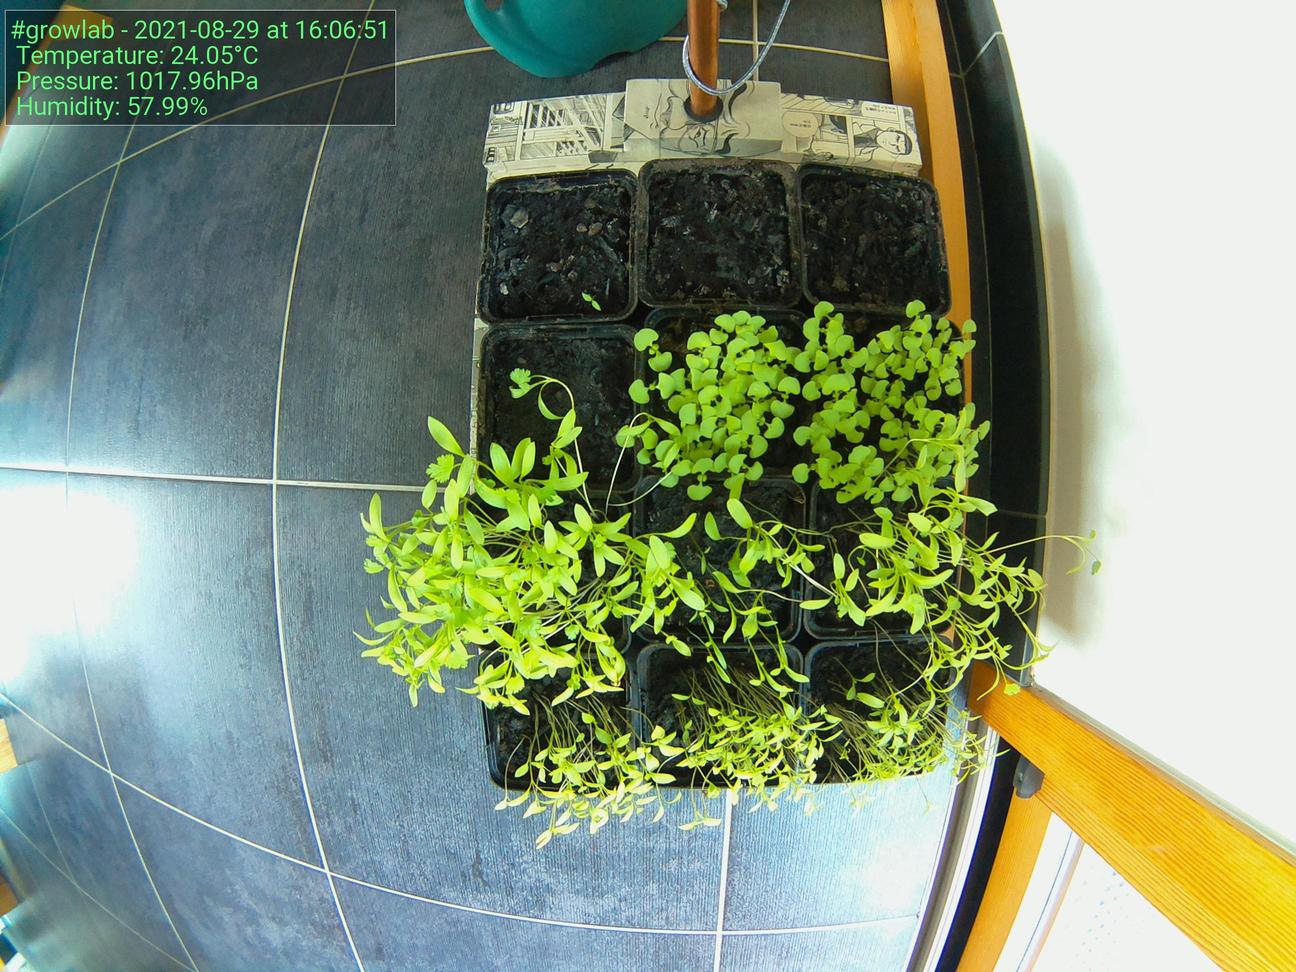
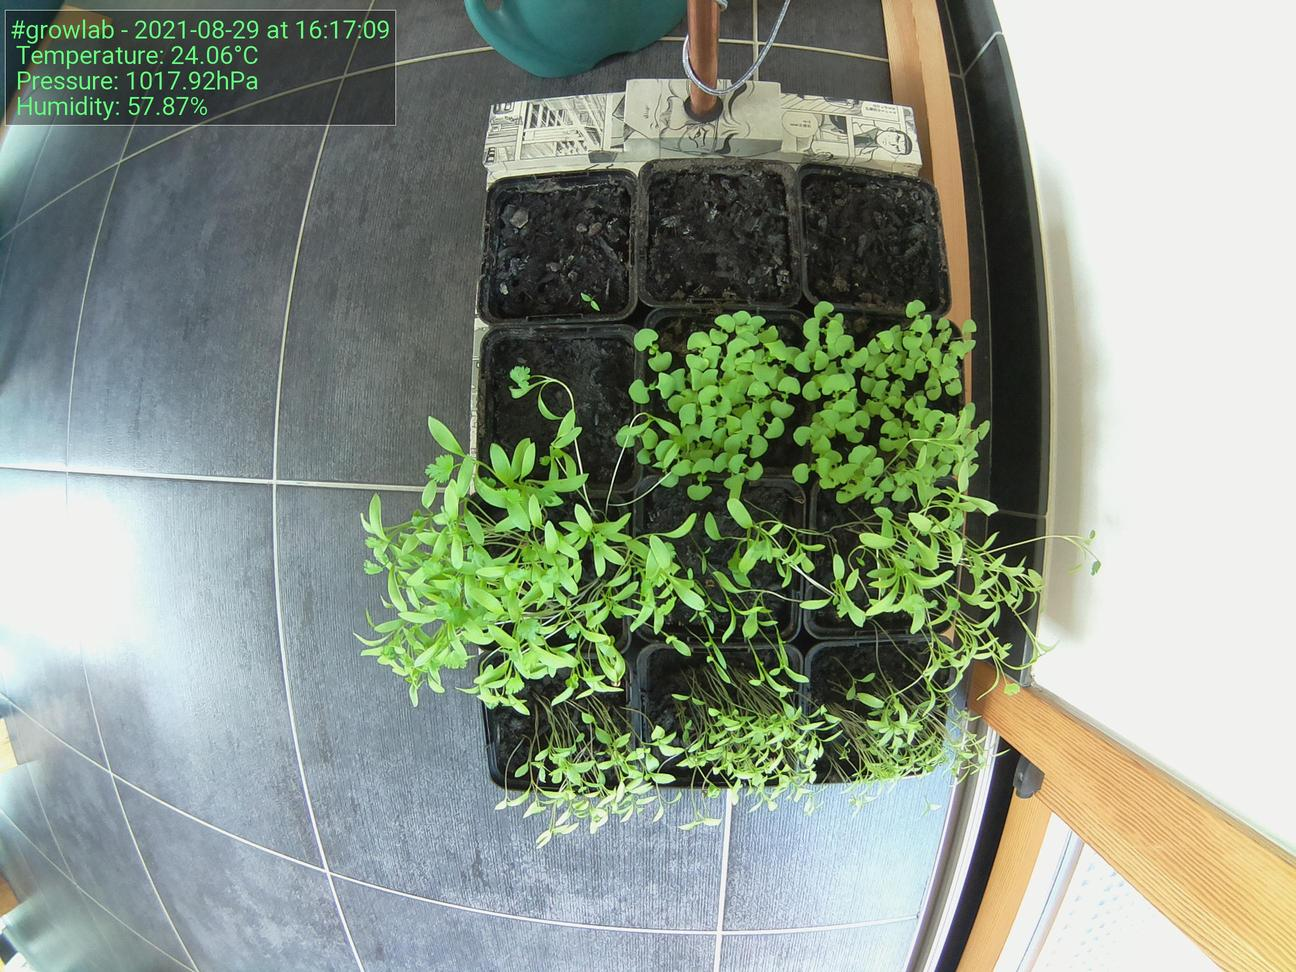
Update images at Sun 29 Aug 16:17:18 CEST 2021

diff --git a/docs/index.html b/docs/index.html
@@ -52,19 +52,19 @@
                             </tr>
                             <tr>
                                 <td>Time</td>
-                                <td>16:06:51</td>
+                                <td>16:17:09</td>
                             </tr>
                             <tr>
                                 <td>Temperature</td>
-                                <td>24.05°C</td>
+                                <td>24.06°C</td>
                             </tr>
                             <tr>
                                 <td>Humidity</td>
-                                <td>57.99%</td>
+                                <td>57.87%</td>
                             </tr>
                             <tr>
                                 <td>Pressure</td>
-                                <td>1017.96hPa</td>
+                                <td>1017.92hPa</td>
                             </tr>
                         </tbody>
                     </table>
@@ -72,7 +72,7 @@
 
                 <h5>Latest image</h5>
                 <div style="width: 85%;">
-                            <img class="figure-img img-fluid rounded" src="./preview.jpg?uid=1630246019.6590219">
+                            <img class="figure-img img-fluid rounded" src="./preview.jpg?uid=1630246637.5370548">
                 </div>
             </div>
         </div>
